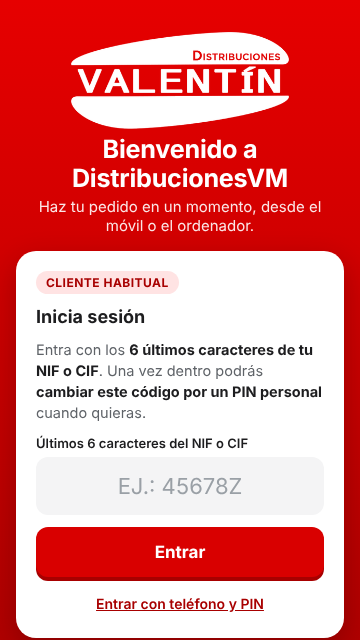
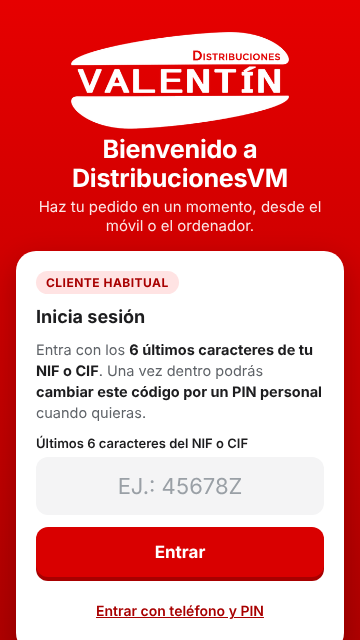
Móvil: enlaces de la portada de 44 px, sin salto de 36 px al abrir pantallas y «reducir movimiento» en el panel de empresa y la demo
Claude-Session: https://claude.ai/code/session_01TfVuY5rbjyjTBkC2haqBk3

Changed region(s): [[0.2444, 0.9375, 0.7333, 0.9688], [0.8861, 0.9688, 0.9778, 1.0], [0.0306, 0.9688, 0.1222, 1.0]]

diff --git a/bot-whatsapp/cliente.html b/bot-whatsapp/cliente.html
@@ -74,7 +74,7 @@
   .vm .vm-btn.ghost { background:#fff; color:var(--red-d); border:2px solid var(--red); }
   .vm .vm-btn.ghost:hover { background:#fff1f1; }
   .vm .vm-btn:focus-visible, .vm .vm-link:focus-visible { outline:3px solid #ffb3b3; outline-offset:2px; }
-  .vm .vm-link { font:inherit; font-size:14px; font-weight:600; background:none; border:0; color:var(--red-d); cursor:pointer; padding:6px; text-decoration:underline; }
+  .vm .vm-link { font:inherit; font-size:14px; font-weight:600; background:none; border:0; color:var(--red-d); cursor:pointer; padding:6px 10px; min-height:44px; display:inline-flex; align-items:center; justify-content:center; text-decoration:underline; }
   .vm .err { color:#b00020; font-size:14px; font-weight:600; min-height:0; } .vm .err:empty, .vm .okmsg:empty, .vm .ok:empty { display:none; }
   .vm .okmsg, .vm .ok { color:#0b6b3a; font-size:14px; font-weight:600; }
   .vm .info { display:flex; gap:10px; align-items:flex-start; background:var(--soft); border-radius:12px; padding:11px 12px; font-size:13.5px; color:var(--mute); }

diff --git a/bot-whatsapp/pedido.html b/bot-whatsapp/pedido.html
@@ -77,8 +77,9 @@
   .big { transition:transform .12s var(--ease), box-shadow .12s, background-color .2s; }
   .cartbtn { transition:transform .14s var(--ease); } .cartbtn:active { transform:scale(.96); }
   #cart.nuevo .card { animation:subir .38s var(--ease) both; animation-delay:calc(var(--i, 0) * 45ms); }
+  @media (prefers-reduced-motion: reduce) { .screen:not([hidden]) { animation:none !important; } }
   @media (prefers-reduced-motion: reduce) { *, *::before, *::after { animation-duration:.01ms !important; animation-delay:0s !important; transition-duration:.01ms !important; } }
-  .app { width:100%; max-width:none; height:100vh; height:100dvh; background:#fff; display:flex; flex-direction:column; position:relative; }
+  .app { width:100%; max-width:none; height:100vh; height:100dvh; background:#fff; display:flex; flex-direction:column; position:relative; overflow:hidden; }
 
   /* Cabecera roja con el logo */
   header { display:flex; align-items:center; gap:12px; padding:10px 14px; background:var(--rojo); color:#fff; }

diff --git a/bot-whatsapp/empresa.html b/bot-whatsapp/empresa.html
@@ -5,6 +5,7 @@
 <meta name="viewport" content="width=device-width, initial-scale=1, viewport-fit=cover">
 <title>Empresa · Pedidos y altas de clientes</title>
 <style>
+  @media (prefers-reduced-motion: reduce) { *, *::before, *::after { animation-duration:.01ms !important; animation-delay:0s !important; transition-duration:.01ms !important; scroll-behavior:auto !important; } }
   :root { --bg:#eef1ee; --panel:#fff; --fg:#17211c; --muted:#5d6b63; --line:#dbe2dd; --accent:#0f7a4d; --accent-fg:#fff; --soft:#e0f1e8; --warn:#fbefcf; --warn-fg:#8a5a00; --ok:#d7f0e0; --ok-fg:#14532d; --hold:#f8dcdc; --hold-fg:#8a2c2c; --err:#a12d2d; }
   @media (prefers-color-scheme: dark) { :root { --bg:#0f1512; --panel:#18211d; --fg:#e6ede8; --muted:#93a39a; --line:#2a3630; --accent:#37c382; --accent-fg:#07251a; --soft:#173b2c; --warn:#3a2f10; --warn-fg:#f0c66a; --ok:#153a29; --ok-fg:#8fe0b4; --hold:#40201f; --hold-fg:#f1a1a1; --err:#f1a1a1; color-scheme: dark; } }
   * { box-sizing: border-box; } [hidden] { display: none !important; }

diff --git a/bot-whatsapp/demo.html b/bot-whatsapp/demo.html
@@ -5,6 +5,7 @@
 <meta name="viewport" content="width=device-width, initial-scale=1">
 <title>Demo bot de pedidos</title>
 <style>
+  @media (prefers-reduced-motion: reduce) { *, *::before, *::after { animation-duration:.01ms !important; animation-delay:0s !important; transition-duration:.01ms !important; scroll-behavior:auto !important; } }
   :root { --verde:#075e54; --burbuja-in:#fff; --burbuja-out:#d9fdd3; --fondo:#efeae2; --texto:#111b21; --gris:#667781; }
   * { box-sizing: border-box; }
   body { margin:0; font-family: -apple-system, "Segoe UI", Roboto, sans-serif; background:#f0f2f5; color:var(--texto); }

diff --git a/bot-whatsapp/qa/HALLAZGOS.md b/bot-whatsapp/qa/HALLAZGOS.md
@@ -98,3 +98,8 @@ Probado en 320×568 y 360×640 (táctil) en: `/` y `/cliente` (acceso), enlace d
 ### Arreglado: pareja 5 (F6-2 + F6-3)
 - F6-2: la fila del catálogo web muestra el descuento del cliente junto al precio («0,62 € · −5 % dto.»), así la barra del carrito (0,59 €) ya no sorprende.
 - F6-3: el buscador web perdona una errata de una letra en palabras de 5+ letras («cervesa», «cerbeza», «refrezco» encuentran el artículo; «vino» sigue sin falsos positivos; «zzzzz» no encuentra nada). No cubre intercambios de letras («pataats»). Verificado con navegador. Tests: 214/214 (la página no tiene tests de interfaz).
+
+### Arreglado: pareja 6 (F10-1 + F10-2 + F10-3)
+- F10-1: los enlaces `.vm-link` de la portada (p. ej. «Entrar con teléfono y PIN») miden ya ≥ 44 px de alto (antes 29 px). Comprobado a 320 y 360 px: ningún elemento interactivo < 36 px.
+- F10-2 (causa encontrada): la animación `entrar` de las pantallas (`.screen`, posicionadas en absoluto) las desplaza 36 px a la derecha al empezar y ensanchaba la página ~100 ms. Arreglo: `.app { overflow:hidden }` y, con «reducir movimiento», sin animación de entrada. Comprobado con muestreo por fotograma: 0 desbordamientos en ambos modos.
+- F10-3: `empresa.html` y `demo.html` respetan ya `prefers-reduced-motion`. Tests: 214/214.

diff --git a/bot-whatsapp/qa/PLAN_ARREGLOS.md b/bot-whatsapp/qa/PLAN_ARREGLOS.md
@@ -7,6 +7,6 @@ Ver el detalle de cada código (F…) en HALLAZGOS.md. Marcar [x] al terminar ca
 3. [x] F7-1 texto falso «Al tocarlo se envía tu pedido» (pedido.html) + F7-2/F8-3 singulares («1 uds», «1 artículos») y coma decimal en el chat
 4. [x] F4-2 referencia del pedido en «¡Pedido recibido!» (chat y web) + F4-3 recordar el pedido en «No he reconocido ese artículo»
 5. [x] F6-2 descuento visible en la fila del catálogo web + F6-3 buscador web tolerante a erratas
-6. [ ] F10-1 enlace «Entrar con teléfono y PIN» ≥ 44 px + F10-3 prefers-reduced-motion en empresa.html y demo.html (F10-2 salto de 36 px: intentar aislarlo)
+6. [x] F10-1 enlace «Entrar con teléfono y PIN» ≥ 44 px + F10-3 prefers-reduced-motion en empresa.html y demo.html (F10-2 salto de 36 px: intentar aislarlo)
 7. [ ] F5-3 («1.5» suelto = agua 1,5 L; «0 aguas») + F3-2 (mensaje de «ejemplo» sin sugerir añadir más palabras)
 No tocar: F6-1 (vino) hasta que el usuario responda.
